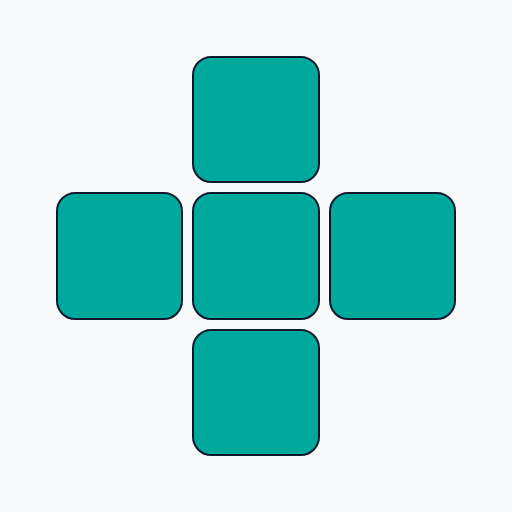
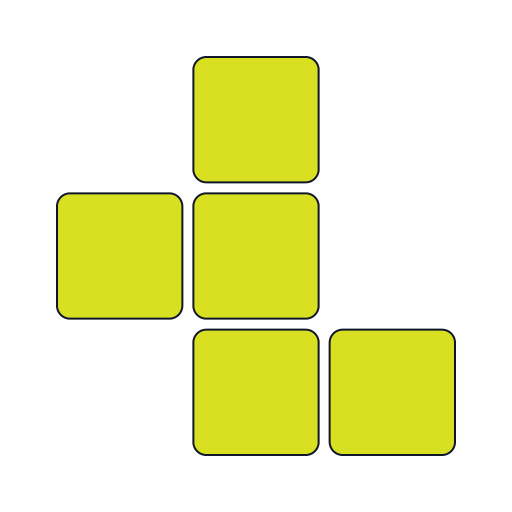
El icono pasa a la pieza `F` y a fondo transparente
Pedido del usuario: la `F` en vez de la `X`, y sin el fondo blanco.

La `F` es `#D9E021` (`palette.constants.ts:48`, Lc 83,1 contra negro) y
no es una de las dos excepciones de `LC_EXCEPCIONES`, asi que el
criterio que el T003 uso para elegir la `X` sigue valiendo.

La geometria no se invento: sale de MEDIR el `icon-512.png` que dejo el
028, para que cambiar la pieza no cambie ademas el lenguaje visual.
Paso 409/3 = 136,33 px, baldosa 127,33, aire 4,5, filete 2, radio ~14,
grilla de 3x3 centrada.

El `manifest.json` no cambia. Su `background_color` sigue en `#f8fafc`
y con el icono transparente pasa a ser lo que de verdad pinta atras en
el splash, que es para lo que existe. `fondo-sincronizado.test.ts` en
verde.

Y de paso cierra el T005 del 028, que era el `[M]` de mirar el favicon
a 16 px. La mancha que esa tarea preveia era real y esta medida: por
baldosa, a 16 px la baldosa mide 3,01 px y el filete se come 2 de esos
3, asi que el icono queda 0 % color y 100 % tinta —promedio `#282f29`,
cinco puntos negros—. Se aplico la salida que la tarea ya tenia
escrita, silueta y no otro color: 55 % de color a 16 px.

El corte quedo entre 16 y 32 midiendo: a 32 la baldosa mide 8 y ya da
57 %, asi que 32/48/64 conservan el lenguaje por baldosa y solo el 16
es silueta.

Tercer hallazgo, que el T005 no preveia: a los tamaños del favicon el
paso y el origen tienen que caer en entero. Con `origen = 0,5` cada
borde cae en medio pixel y el 38 % de los pixeles salen parciales —
[…]

diff --git a/specs/028-la-app-deja-de-llamarse-react-app/tasks.md b/specs/028-la-app-deja-de-llamarse-react-app/tasks.md
@@ -15,14 +15,35 @@ que es ortogonal en semántica y no en texto: ver la sección 10 del research. N
       el T003. Dura un commit y es el precio de que el borrado sea reversible
 - [x] T003 Iconos propios en 192 y 512 px, más el `favicon`. Salen del lenguaje que `DESIGN.md` ya fijó:
       una pieza en uno de los doce colores medidos, baldosa `rounded-lg` con borde `slate-900`
-      (`Board.tsx:293`), fondo `#f8fafc` — **AC2a**. **Ni `L` ni `Y`**: son las dos excepciones de
+      (`Board.tsx:293`), fondo `#f8fafc` — **AC2a**. **Las dos mitades de esa última frase caducaron
+      y quedan acá como historia**: la pieza pasó de la `X` (`#00A99D`) a la **`F`** (`#D9E021`,
+      Lc 83,1 contra negro) y el fondo dejó de ser `#f8fafc` para ser **transparente**, las dos por
+      pedido del usuario el 2026-08-21. El `manifest.json` **no cambia**: su `background_color`
+      sigue en `#f8fafc` y con el icono transparente pasa a ser lo que de verdad pinta atrás en el
+      splash, que es para lo que existe. **Ni `L` ni `Y`**: son las dos excepciones de
       `LC_EXCEPCIONES` (`palette.constants.ts:70`), no llegan al piso de contraste Lc 60 y un ícono es
       justo donde eso se ve. Elegir una de esas dos sería meter la deuda D3 en la identidad del
       proyecto
 - [x] T004 Es **aplicación** del lenguaje visual, no una revisión: si algo no cierra, se cambia el ícono
       y no `DESIGN.md`
-- [ ] T005 [M] Mirar el favicon a 16 px, y los tres contra `DESIGN.md` — **AC2b**. Una pieza de cinco celdas puede volverse una mancha; si pasa,
-      la salida es una silueta más simple y no otro color
+- [x] T005 [M] Mirar el favicon a 16 px, y los tres contra `DESIGN.md` — **AC2b**. Una pieza de cinco celdas puede volverse una mancha; si pasa,
+      la salida es una silueta más simple y no otro color.
+      **Hecho el 2026-08-21, y la mancha era real y está medida.** Con el lenguaje por baldosa, a
+      16 px la baldosa mide **3,01 px** y el filete de 1 px se come 2 de esos 3: el icono queda
+      **0 % del color de la pieza y 100 % tinta**, promedio `#282f29` — cinco puntos negros, no una
+      pieza. Se aplicó la salida que esta tarea ya tenía escrita —silueta, **no** otro color—: las
+      cinco celdas unidas sin aire, con un solo filete alrededor del perímetro. Medido, la silueta
+      da **55 %** del color a 16 px.
+      **El corte quedó entre 16 y 32 y no más arriba**, también midiendo: a 32 px la baldosa mide 8
+      y el icono ya da 57 % de color, o sea que se lee — así que 32, 48 y 64 conservan el lenguaje
+      por baldosa y sólo el 16 es silueta. Ceder más arriba habría cambiado el icono en tamaños
+      donde no hacía falta.
+      **Y un tercer hallazgo que esta tarea no preveía**: a los tamaños del favicon el paso y el
+      origen tienen que caer en **entero**. Con `origen = 0,5` cada borde cae en medio píxel y el
+      **38 %** de los píxeles dibujados salen parciales — el icono se ve borroso sin que nada esté
+      mal. Alineado a entero, el 16 queda **100 % sin antialias**.
+      Verificado además en Chrome de verdad, no sólo en el generador: los tres decodifican y la
+      esquina `(0,0)` da `rgba(0,0,0,0)` — transparencia real y no blanco
 
 ## Paso 2 — El manifest y las metas
 
